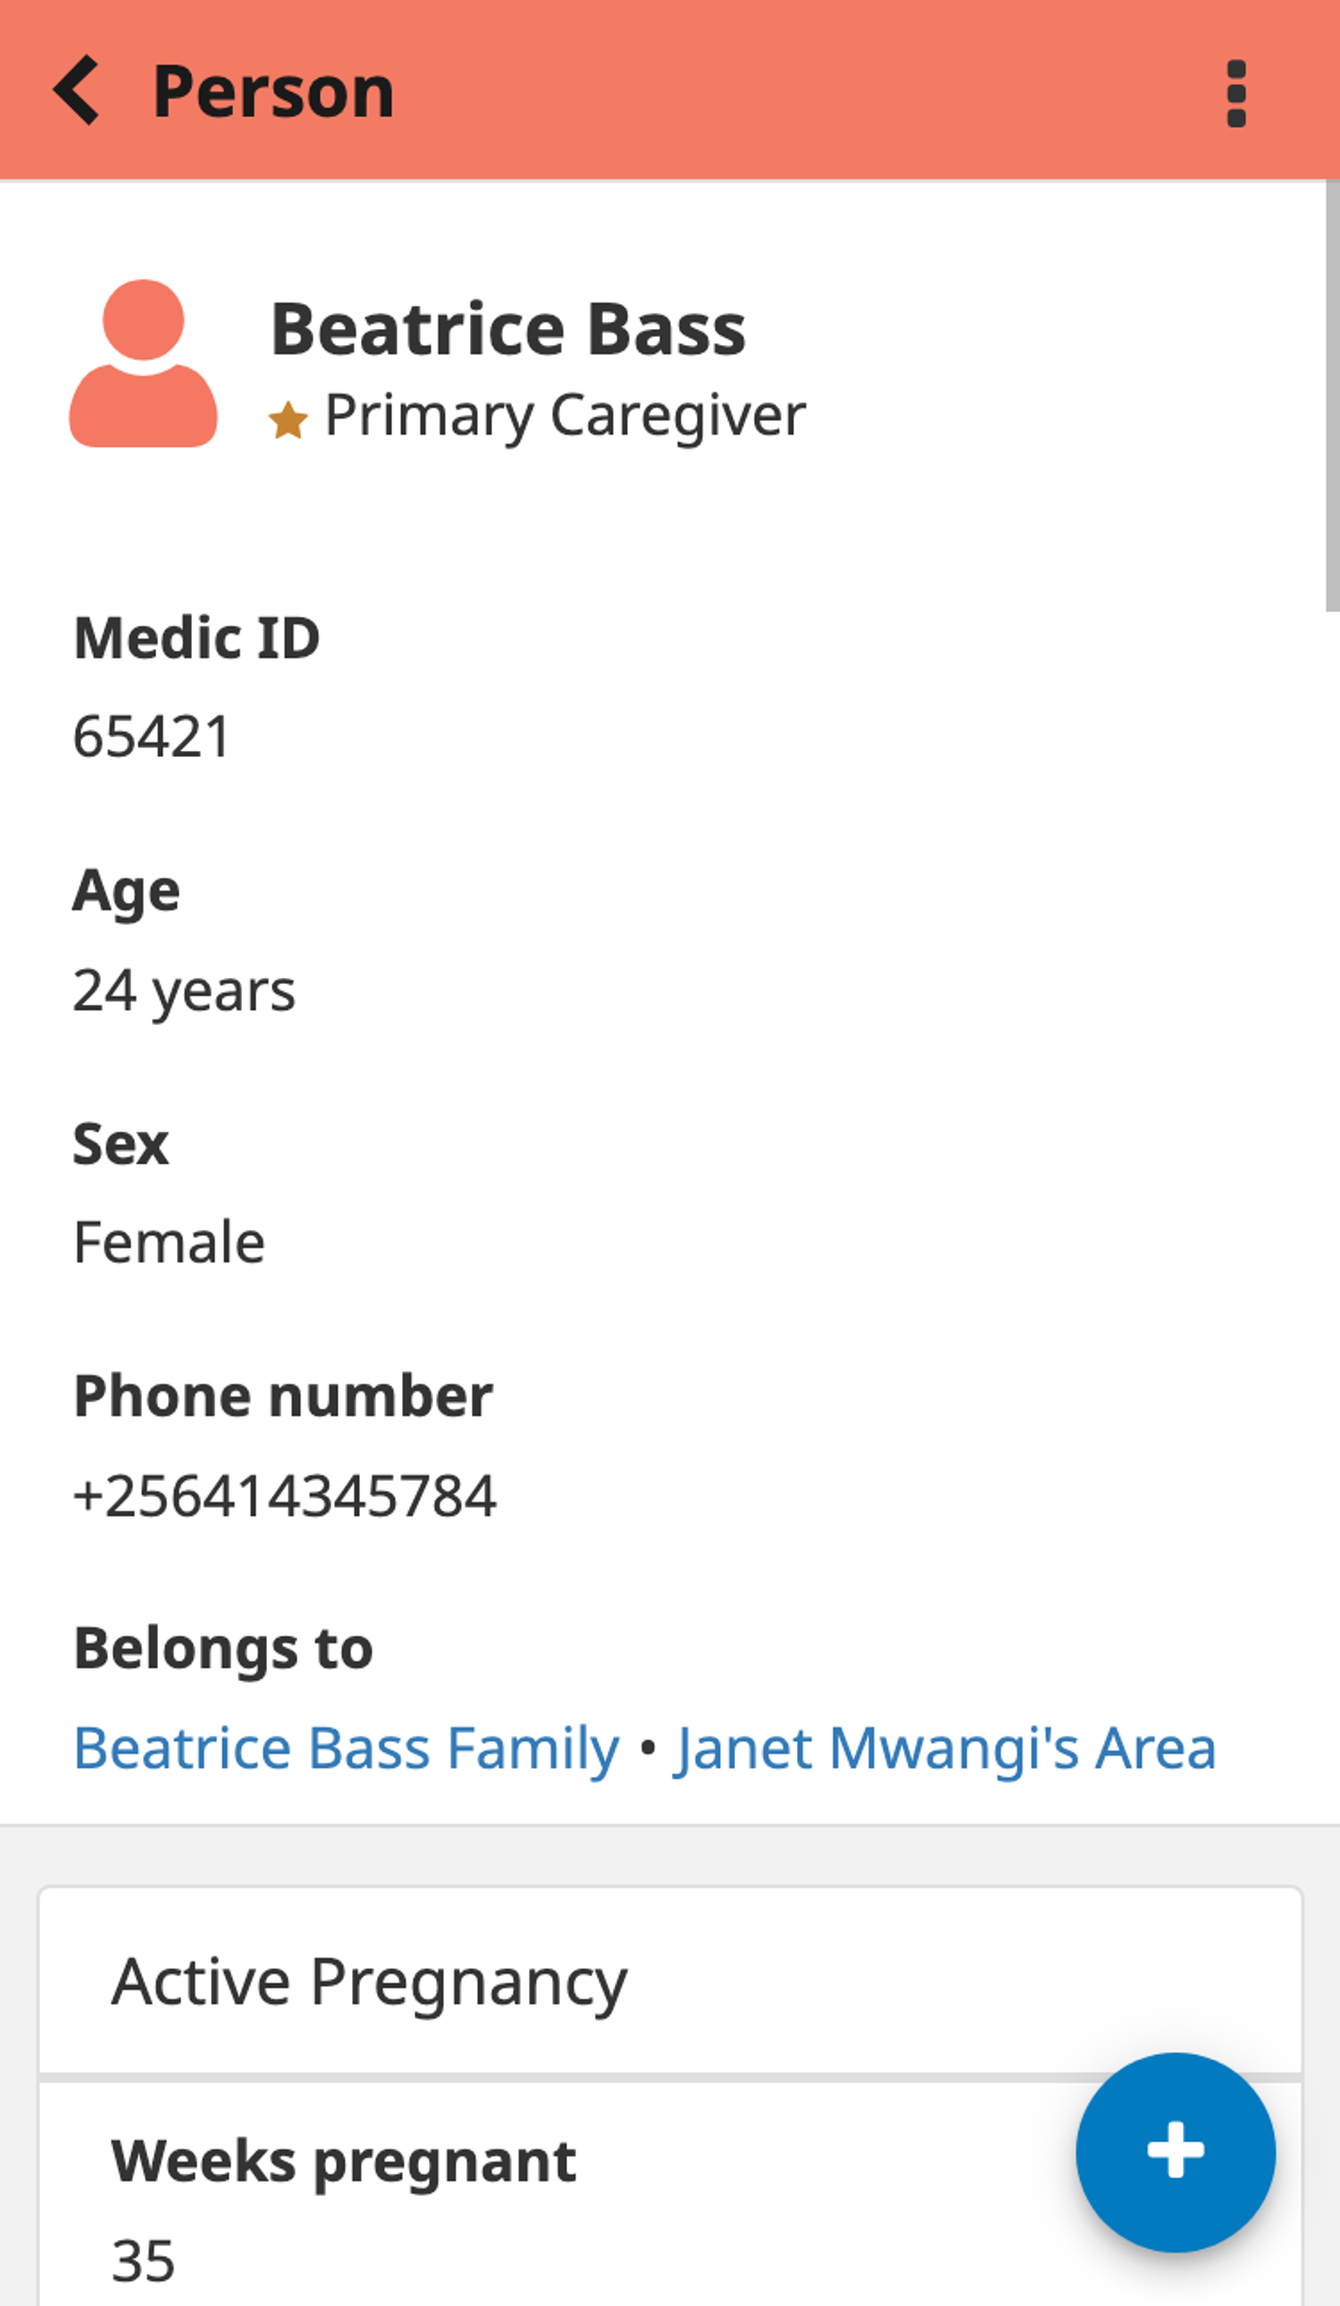
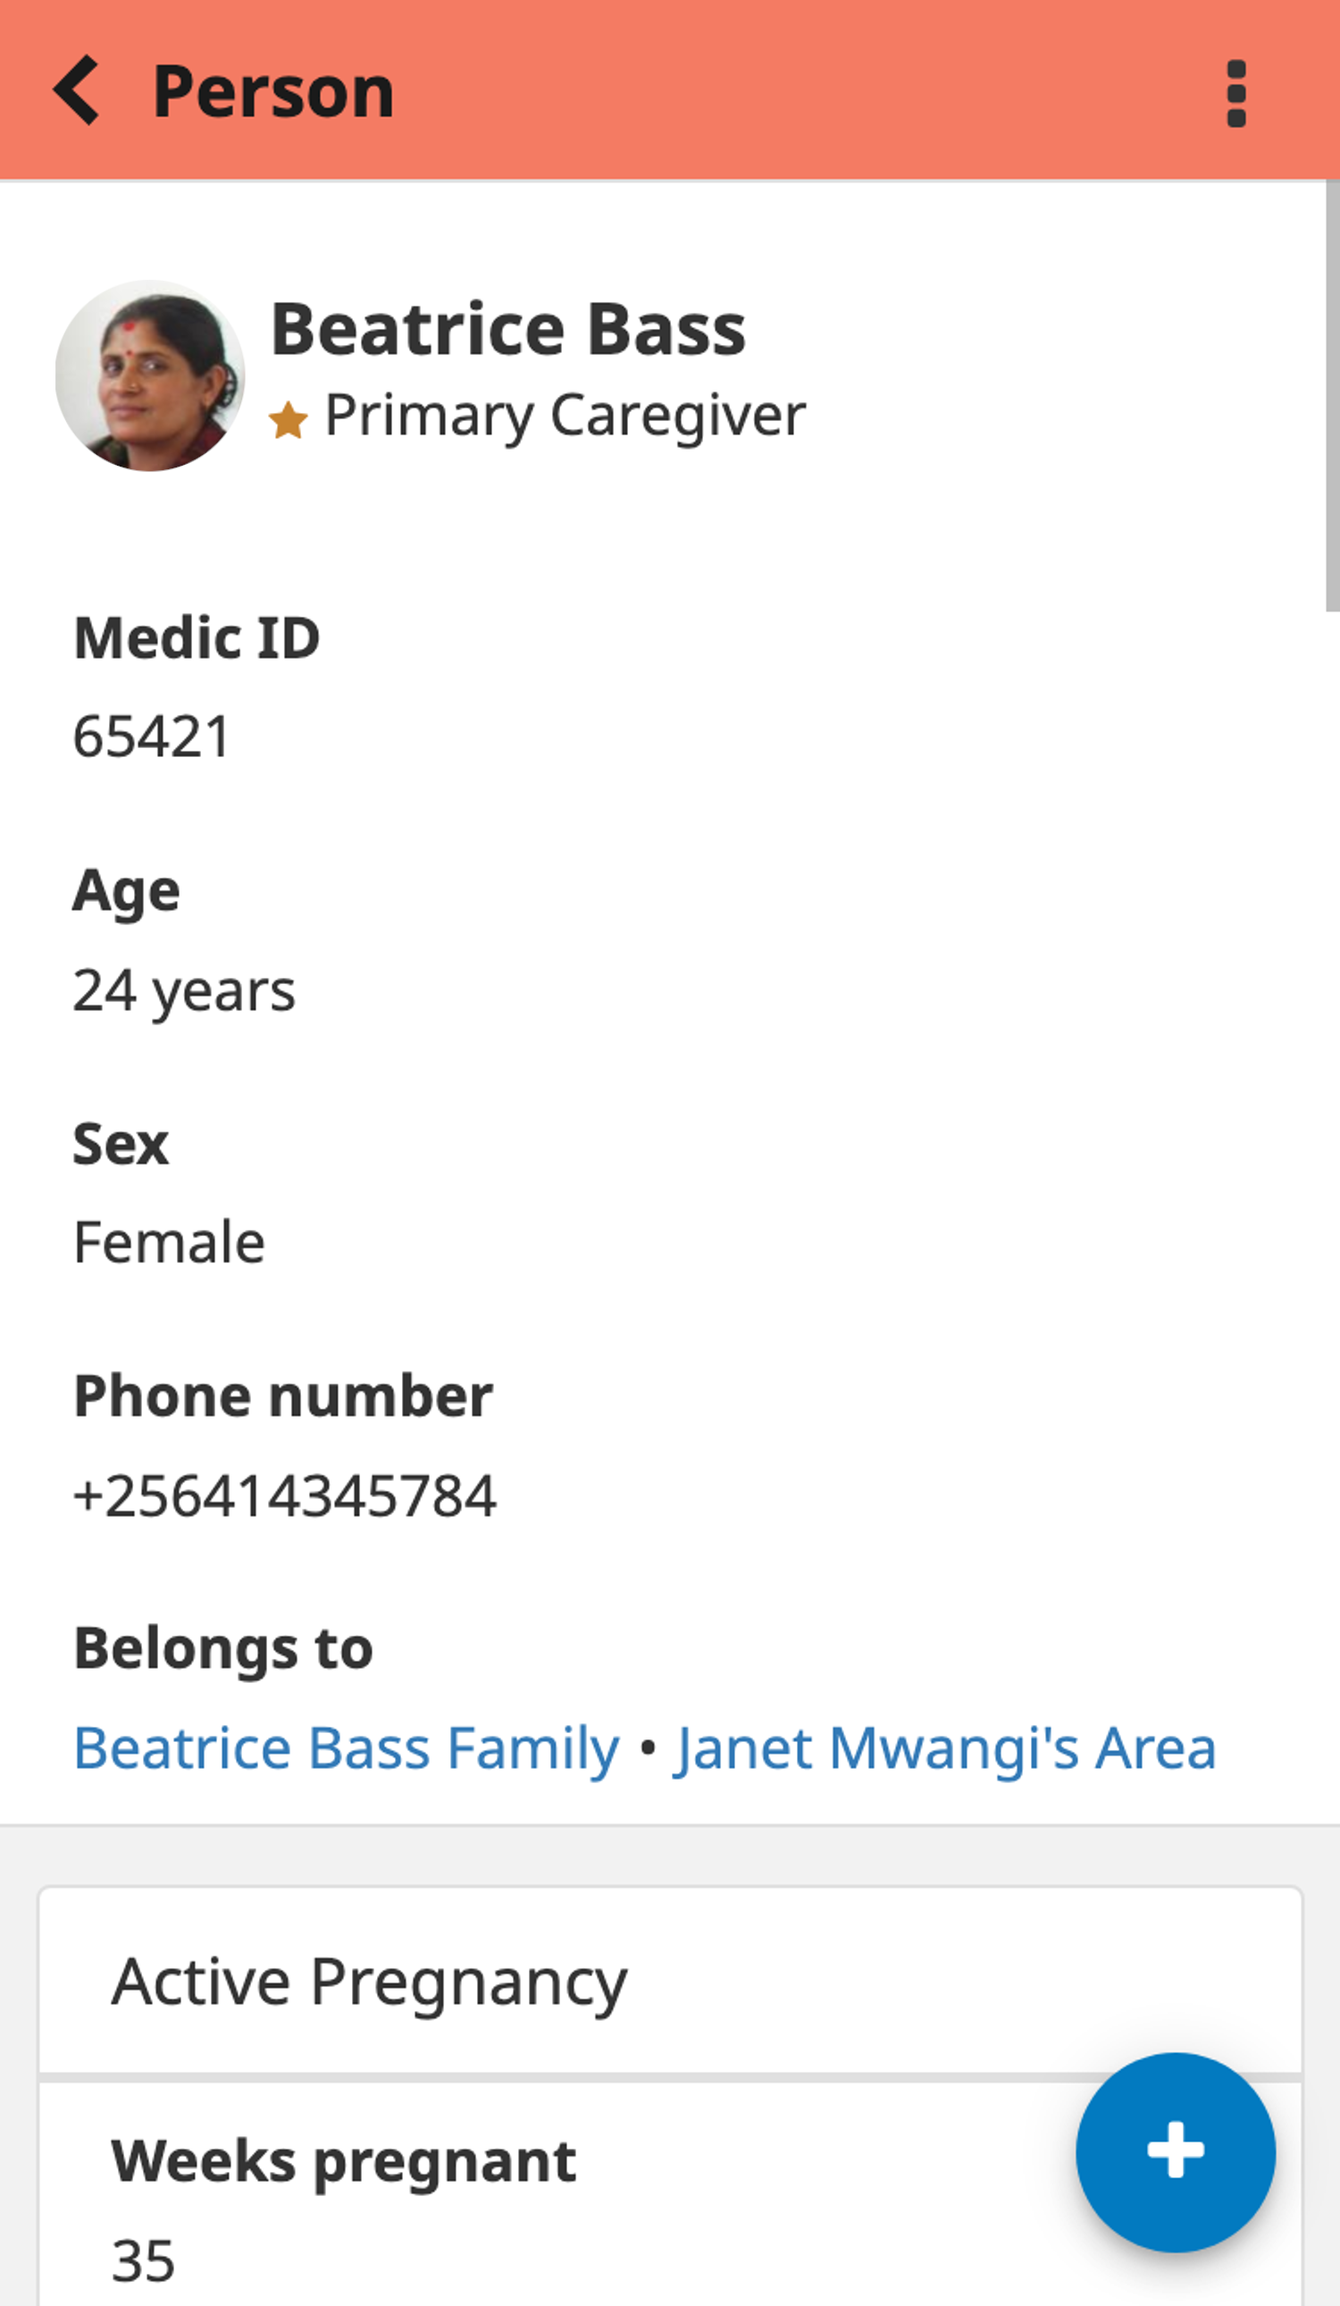
feat(#10662): document process for setting contact profile image (#2227)

Changed region(s): [[0.0307, 0.124, 0.184, 0.2171]]

diff --git a/content/en/building/reference/app-settings/hierarchy.md b/content/en/building/reference/app-settings/hierarchy.md
@@ -18,22 +18,23 @@ From 3.7.0 it is possible to configure what types of places and people are avail
 
 ### `app_settings.json .contact_types[]`
 
-|Property|Description|Required|
-|-------|---------|----------|
-| `id` | String identifier for the type. At times this will be used to sort the contacts in the UI so it is recommended to using a number prefix with gaps between numbers, eg: `10-district`, `20-region`, etc. | Yes. |
-| `name_key` | The translation key used for the title for the contact profile. | No, defaults to 'contact.profile'. |
-| `group_key` | The translation key used for the title of a list of contacts of this type. | Yes. |
-| `create_key` | The translation key used on the button for creating new contacts of this type. | Yes. |
-| `edit_key` | The translation key used on the button for editing contacts of this type. | Yes. |
-| `primary_contact_key` | The translation key used to identify a person as the primary contact of contacts of this type. | No, defaults to 'Primary contact'. |
-| `parents` | An array of strings of IDs of parent types. If more than one then this type can appear in different places in the hierarchy. If more than one type lists the same type as a parent then a user will get a dropdown of places to create. If no parents then contacts of this type will be at the top of the hierarchy and cannot be added as a child of any contact. | No, defaults to no parents. |
-| `icon` | The string ID for the icon to show beside contacts of this type. | Yes. |
-| `create_form` | The string ID for the xform used to create contacts of this type. | Yes. |
-| `edit_form` | The string ID for the xform used to edit contacts of this type. | No, defaults to the create_form. |
-| `count_visits` | Whether or not to show a count of visits for contacts of this type. Requires UHC to be enabled. | No, defaults to `false`. |
-| `sort_by_dob`         | Whether or not to sort contacts by date of birth in the contact detail page. By default, contacts are sorted alphabetically. | No, defaults to `false`. |
-| `person` | Whether this is a person type or a place type. | No, defaults to `false`. |
- 
+| Property              | Description                                                                                                                                                                                                                                                                                                                                                         | Required                           |
+|-----------------------|---------------------------------------------------------------------------------------------------------------------------------------------------------------------------------------------------------------------------------------------------------------------------------------------------------------------------------------------------------------------|------------------------------------|
+| `id`                  | String identifier for the type. At times this will be used to sort the contacts in the UI so it is recommended to using a number prefix with gaps between numbers, eg: `10-district`, `20-region`, etc.                                                                                                                                                             | Yes.                               |
+| `name_key`            | The translation key used for the title for the contact profile.                                                                                                                                                                                                                                                                                                     | No, defaults to 'contact.profile'. |
+| `group_key`           | The translation key used for the title of a list of contacts of this type.                                                                                                                                                                                                                                                                                          | Yes.                               |
+| `create_key`          | The translation key used on the button for creating new contacts of this type.                                                                                                                                                                                                                                                                                      | Yes.                               |
+| `edit_key`            | The translation key used on the button for editing contacts of this type.                                                                                                                                                                                                                                                                                           | Yes.                               |
+| `primary_contact_key` | The translation key used to identify a person as the primary contact of contacts of this type.                                                                                                                                                                                                                                                                      | No, defaults to 'Primary contact'. |
+| `parents`             | An array of strings of IDs of parent types. If more than one then this type can appear in different places in the hierarchy. If more than one type lists the same type as a parent then a user will get a dropdown of places to create. If no parents then contacts of this type will be at the top of the hierarchy and cannot be added as a child of any contact. | No, defaults to no parents.        |
+| `icon`                | The string ID for the icon to show beside contacts of this type.                                                                                                                                                                                                                                                                                                    | Yes.                               |
+| `create_form`         | The string ID for the xform used to create contacts of this type.                                                                                                                                                                                                                                                                                                   | Yes.                               |
+| `edit_form`           | The string ID for the xform used to edit contacts of this type.                                                                                                                                                                                                                                                                                                     | No, defaults to the create_form.   |
+| `count_visits`        | Whether or not to show a count of visits for contacts of this type. Requires UHC to be enabled.                                                                                                                                                                                                                                                                     | No, defaults to `false`.           |
+| `sort_by_dob`         | Whether or not to sort contacts by date of birth in the contact detail page. By default, contacts are sorted alphabetically.                                                                                                                                                                                                                                        | No, defaults to `false`.           |
+| `person`              | Whether this is a person type or a place type.                                                                                                                                                                                                                                                                                                                      | No, defaults to `false`.           |
+| `profile_image_field` | The name of the contact field containing the profile image. When an image is uploaded for this field on a contact (e.g. in the contact's create form), the header on the contact's profile page will display the image. If the contact does not have a photo set for this field, the contact type `icon` will be displayed. Added in 5.3.0.                         | No, defaults to `profile_image`.   |
+
 ### Forms
 
 When creating contacts the type will be automatically assigned based on the button the user clicked. However if the form also creates sibling or child contacts these nested sections must specify a `type` field with a hardcoded value of "contact" and a `contact_type` field with the ID of the desired contact type.

diff --git a/content/en/building/forms/contact.md b/content/en/building/forms/contact.md
@@ -46,41 +46,37 @@ The `parent`, `type`, and `name` fields are mandatory on forms that are adding c
 
 The `form_id` should follow the pattern `contact:CONTACT_TYPE_ID:ACTION` where CONTACT_TYPE_ID is the contact_type id for the contact and ACTION is `create` or `edit`. (e.g. `contact:clinic:create`)
 
-## Uploading Binary Attachments
+## Attachments
 
 _Added in 5.1.0._
 
-Contact forms can include binary data, such as photos or other files, which are submitted and saved as attachments on the contact document. Attachment uploads are supported in both create and edit contact forms. Note that attachment uploads are only supported for the main contact document; any file attachments defined within sibling or repeat groups will also be attached to the main document.
+Contact forms can include binary data, such as photos or other files, which are submitted and saved as attachments on the contact document. Attachment uploads are supported in both create and edit contact forms via the standard [ODK file upload questions](https://docs.getodk.org/form-question-types/#image-widgets) as well as the [Android App launcher](/building/forms/app/#android-app-launcher).
 
-To add an image upload field, use the `image` type in XLSForm. For a generic file upload, use the `file` type. Alternatively, to mark any element as having binary data, add an `instance::type` column to the XLSForm and specify `binary` in the element's row.
+[See below](#capturing-attachments-for-child-contacts) for more information about capturing attachments for child contacts.
 
-The following example adds a photo field to a person contact form:
-
-| type  | name  | label::en | hint::en                            |
-|-------|-------|-----------|-------------------------------------|
-| image | photo | Photo     | Take a photo or select from gallery |
-
-The equivalent XForm XML for the above example is:
-
-```xml
-<!-- Model -->
-<photo/>
-
-<!-- Bind -->
-<bind nodeset="/data/person/photo" type="binary"/>
-
-<!-- Body -->
-<upload ref="/data/person/photo" mediatype="image/*">
-  <label>Photo</label>
-  <hint>Take a photo or select from gallery</hint>
-</upload>
-```
-
-**Note:** If the contact form is accessed via CHT Android and uses a file picker to upload files, include the `READ_EXTERNAL_STORAGE` permission to allow access to files on the device. Add the following line to the branded app's `AndroidManifest.xml`:
+{{< callout type="info" >}}
+If the contact form is accessed via CHT Android and uses a file picker to upload files, include the `READ_EXTERNAL_STORAGE` permission to allow access to files on the device. Add the following line to the branded app's `AndroidManifest.xml`:
 
 ```xml
 <uses-permission android:name="android.permission.READ_EXTERNAL_STORAGE"/>
 ```
+{{< /callout >}}
+
+### Profile image
+
+_Added in 5.3.0_
+
+{{< figure src="/building/contact-management/contacts/profile4.png" link="/building/contact-management/contacts/profile4.png" alt="Contact profile header displaying the contact's photo" width="220" class="bordered-figure" >}}
+
+The header on a contact's profile page will display the profile image (if one exists) for a contact. By default, the photo is loaded from the `profile_image` field on the contact. A different field can be specified for each contact type by setting the [`profile_image_field`](/building/reference/app-settings/hierarchy#app_settingsjson-contact_types) config property.  
+
+If the contact does not have a photo attachment for the profile image field, the contact type `icon` will be displayed on the profile page.
+
+{{< callout type="info" >}}
+Image files are quite large (compared to text data). They require more bandwidth to upload and more disk space to store (both on the user's device and the server). Recording a large number of high-resolution images could negatively impact performance. 
+
+It is _highly recommended_ to set the [`max-pixels` parameter](https://docs.getodk.org/form-question-types/#scaling-down-images) in form configuration when accepting image uploads.
+{{< /callout >}}
 
 ## Capturing GPS Location
 

diff --git a/content/en/releases/5_1_0.md b/content/en/releases/5_1_0.md
@@ -48,7 +48,7 @@ Tasks continue to be an important way that CHWs interact with the CHT to know wh
 
 ### Attachments on contacts
 
-While attachments [have been possible](/building/forms/app/#uploading-binary-attachments) on app forms for some time, this feature is now available on contact forms too. This enables deployments that need to attach, for example, a photo of a person or household to a contact.  The [documentation has more information](/building/forms/contact/#uploading-binary-attachments) or check out [the video](https://github.com/medic/cht-core/issues/10509#issuecomment-3848114424) showing how it works.
+While attachments [have been possible](/building/forms/app/#uploading-binary-attachments) on app forms for some time, this feature is now available on contact forms too. This enables deployments that need to attach, for example, a photo of a person or household to a contact.  The [documentation has more information](/building/forms/contact/#attachments) or check out [the video](https://github.com/medic/cht-core/issues/10509#issuecomment-3848114424) showing how it works.
 
 {{< cards >}}
 {{< card  image="../images/5_1_0_contact_attachment.png" method="resize" title="A contact form with a 'Photo' field enabling an attachment">}}

diff --git a/content/en/building/contact-management/contacts.md b/content/en/building/contact-management/contacts.md
@@ -72,6 +72,10 @@ Beneath that, you will find tasks for this person or place. At the very bottom i
 
 From profiles, users can edit contact information, take actions, and, if viewing a place profile, add new people and assign a primary contact person. If a place is not at the bottom of the hierarchy, a user can add new places to the level below this.
 
+{{< callout type="info" >}}
+Starting in CHT 5.3.0, the profile header can display [the contact's profile image](/building/forms/contact/#profile-image) instead of the type icon.
+{{< /callout >}}
+
 ## Fields
 
 ### Contact Summary
